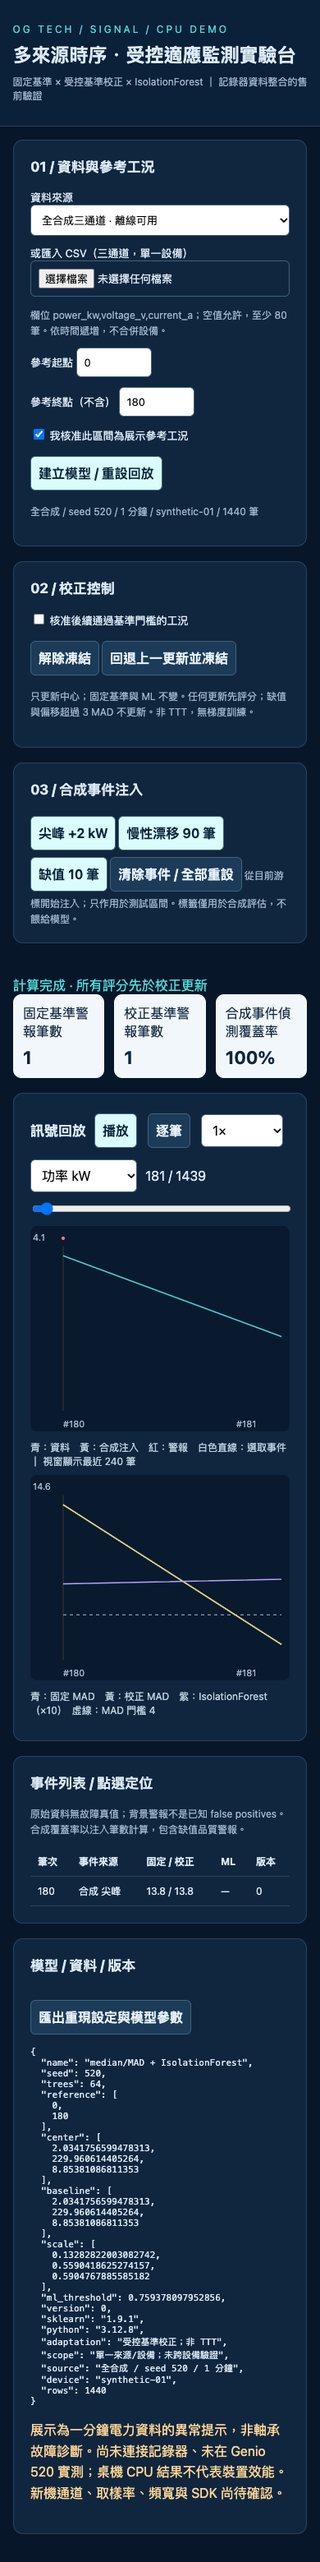
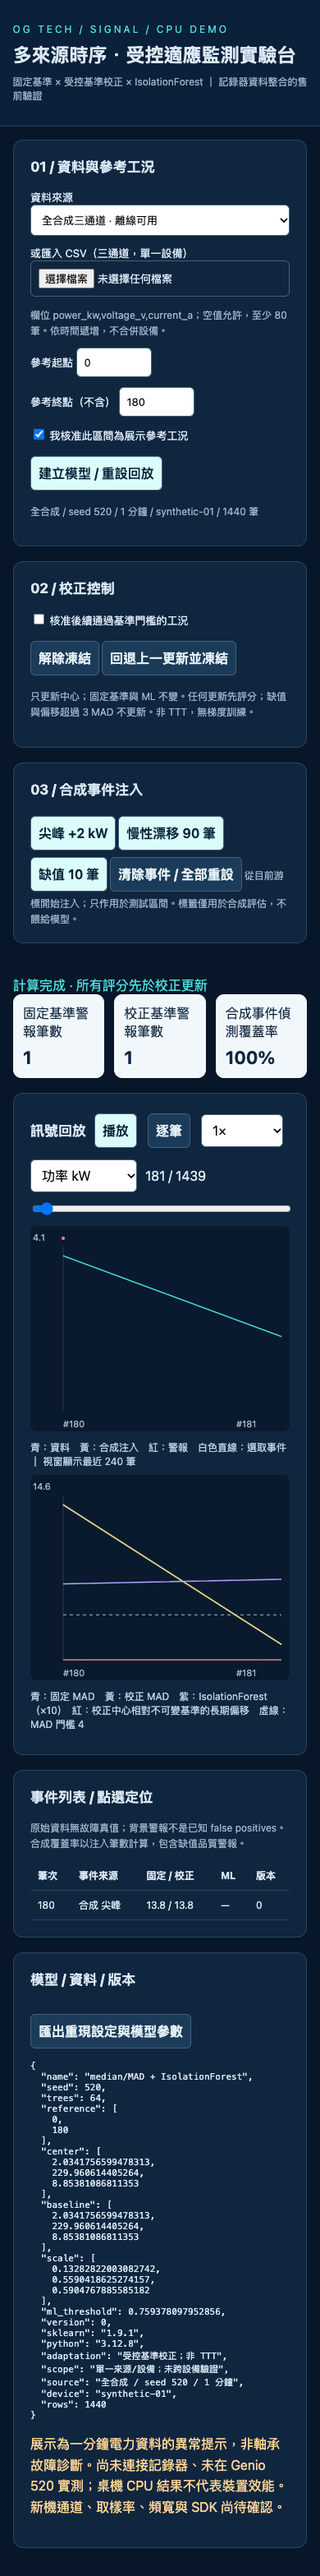
Record UI validation and clarify measured detection limits

diff --git a/app/static/index.html b/app/static/index.html
@@ -6,5 +6,5 @@
 <section class="panel"><h2>03 / 合成事件注入</h2><button data-inject="spike">尖峰 +2 kW</button><button data-inject="drift">慢性漂移 90 筆</button><button data-inject="missing">缺值 10 筆</button><button id="reset" class="secondary">清除事件 / 全部重設</button><small>從目前游標開始注入；只作用於測試區間。標籤僅用於合成評估，不餵給模型。</small></section></aside><div>
 <div id="status" role="status">載入中…</div><div class="cards"><div class="stat">固定基準警報筆數<b id="fixed">—</b></div><div class="stat">校正基準警報筆數<b id="adaptive">—</b></div><div class="stat">合成事件偵測覆蓋率<b id="recall">—</b></div></div>
 <section class="panel"><div class="row"><h2 style="margin:0">訊號回放</h2><button id="play">播放</button><button id="step" class="secondary">逐筆</button><select id="speed" style="width:100px"><option value="1">1×</option><option value="10">10×</option><option value="50">50×</option></select><select id="channel" style="width:130px"><option value="0">功率 kW</option><option value="1">電壓 V</option><option value="2">電流 A</option></select><span id="position"></span></div><input id="seek" type="range" style="width:100%" min="180" max="1439" value="180"><svg id="signal" class="chart" role="img" aria-label="時序訊號與合成事件圖"></svg><div class="legend">青：資料　黃：合成注入　紅：警報　白色直線：選取事件 ｜ 視窗顯示最近 240 筆</div><svg id="scores" class="chart" role="img" aria-label="固定與校正異常分數"></svg><div class="legend">青：固定 MAD　黃：校正 MAD　紫：IsolationForest（×10）　紅：校正中心相對不可變基準的長期偏移　虛線：MAD 門檻 4</div></section>
-<section class="panel"><h2>事件列表 / 點選定位</h2><p class="muted">原始資料無故障真值；背景警報不是已知 false positives。合成覆蓋率以注入筆數計算，包含缺值品質警報。</p><div class="scroll"><table><thead><tr><th>筆次</th><th>事件來源</th><th>固定 / 校正</th><th>ML</th><th>版本</th></tr></thead><tbody id="events"></tbody></table></div></section>
+<section class="panel"><h2>事件列表 / 點選定位</h2><p class="muted">原始資料無故障真值；背景警報不是已知 false positives。合成覆蓋率以注入筆數計算，包含缺值品質警報；原本就會警報的注入筆次也計入，不能歸因為注入偵測成功。</p><div class="scroll"><table><thead><tr><th>筆次</th><th>事件來源</th><th>固定 / 校正</th><th>ML</th><th>版本</th></tr></thead><tbody id="events"></tbody></table></div></section>
 <section class="panel"><div class="row"><h2>模型 / 資料 / 版本</h2><button id="export" class="secondary">匯出重現設定與模型參數</button></div><pre id="model"></pre><p class="warn">展示為一分鐘電力資料的異常提示，非軸承故障診斷。尚未連接記錄器、未在 Genio 520 實測；桌機 CPU 結果不代表裝置效能。新機通道、取樣率、頻寬與 SDK 尚待確認。</p></section></div></div></main><script src="/static/app.js"></script></html>

diff --git a/app/main.py b/app/main.py
@@ -1,4 +1,4 @@
-import csv, io, json, platform
+import csv, io, json, platform, hashlib
 from pathlib import Path
 import sklearn
 from fastapi import FastAPI, HTTPException
@@ -44,5 +44,5 @@ def run(r:Run):
                 if action.get("rollback"): model.rollback()
             if i==r.rollback_at:model.rollback()
             result.append(model.score(row,approved))
-        return dict(scores=result,model=dict(name='median/MAD + IsolationForest',seed=520,trees=64,reference=[r.start,r.end],center=model.center.tolist(),baseline=model.base.tolist(),scale=model.scale.tolist(),ml_threshold=model.ml_threshold,version=model.version,sklearn=sklearn.__version__,python=platform.python_version(),adaptation='受控基準校正；非 TTT',scope='單一來源/設備；未跨設備驗證'))
+        return dict(scores=result,model=dict(name='median/MAD + IsolationForest',implementation='1.0.0',reference_sha256=hashlib.sha256(json.dumps(r.rows[r.start:r.end],sort_keys=True).encode()).hexdigest(),seed=520,trees=64,reference=[r.start,r.end],center=model.center.tolist(),baseline=model.base.tolist(),scale=model.scale.tolist(),ml_threshold=model.ml_threshold,version=model.version,sklearn=sklearn.__version__,python=platform.python_version(),adaptation='受控基準校正；非 TTT',scope='單一來源/設備；未跨設備驗證'))
     except (ValueError,TypeError) as e: raise HTTPException(422,str(e))

diff --git a/scripts/download_uci.py b/scripts/download_uci.py
@@ -3,7 +3,9 @@ from pathlib import Path
 import urllib.request, zipfile, io, csv, json, hashlib, ssl, certifi
 ROOT=Path(__file__).resolve().parents[1]; cache=ROOT/'data/cache';cache.mkdir(parents=True,exist_ok=True)
 p=cache/'uci235.zip'
-if not p.exists(): p.write_bytes(urllib.request.urlopen('https://archive.ics.uci.edu/static/public/235/individual+household+electric+power+consumption.zip', context=ssl.create_default_context(cafile=certifi.where())).read())
+if not p.exists(): p.write_bytes(urllib.request.urlopen('https://archive.ics.uci.edu/static/public/235/individual+household+electric+power+consumption.zip', timeout=60, context=ssl.create_default_context(cafile=certifi.where())).read())
+digest=hashlib.sha256(p.read_bytes()).hexdigest()
[1 lines of base64/hex data omitted]
 z=zipfile.ZipFile(p)
 with z.open('household_power_consumption.txt') as f:
     reader=csv.DictReader(io.TextIOWrapper(f),delimiter=';'); rows=[];times=[]

diff --git a/docs/VALIDATION.md b/docs/VALIDATION.md
@@ -1,0 +1,18 @@
+# 本輪驗證紀錄
+
+日期：2026-10-29（工作區日期）；Python 3.12.8 / macOS 14.4 arm64 / scikit-learn 1.9.1。CPU 型號查詢受 sandbox 限制，因此只回報 arm64；非 G520。
+
+- pytest：6 passed，2.08 秒；一個上游 Starlette / httpx 棄用警告，不影響結果。
+- Chrome headless：1440×1100 與 390×844，建模、合成尖峰、逐筆、播放／暫停與重設成功；無 pageerror、無水平溢位。已檢視桌機與手機截圖。UI 測試需手動安裝 Playwright，不包含於 Python lock。
+- 額外 UI：UCI source、核准、解除凍結、回退、漂移、缺值、事件定位與 JSON 匯出：PASS。
+- CPU benchmark：資料與指標見 benchmark.json；原始與合成資料均 1440 筆，參考 [0,180)，後 1260 筆評分；單執行緒 IsolationForest。
+- 合成資料：尖峰固定/校正覆蓋 100%、ML 0%；漂移固定約 57.8%、校正約 55.6%、ML 約 1.1%。這些結果不支持「ML 一定更好」或「校正一定改善」。缺值由品質警報抓到，不是 ML 的缺值診斷能力。
+- UCI：974 筆未注入資料觸發任一警報。沒有故障真值，不能命名為 false positive；高比例顯示短參考區間跨日常負載工況的限制。注入區段 100% 覆蓋也不證明是注入造成，因未扣掉原本就會警報的筆次。
+- 資料：官方 UCI 下載成功；小切片 1440 筆；archive SHA256 見 ATTRIBUTION.md。
+- Docker build / Compose、Linux CI、GCP VM、實體記錄器與 G520：本輪未跑。Docker socket 存取被宿主權限阻擋；沒有使用 Docker Desktop UI。
+
+## 發布狀態
+
+本機獨立 Git repo 已建立。公司 GitHub 連接器以指定 link_id 查詢 ogtech-ai/signal-adaptive-monitoring 時回傳 HTTP 422：「組織/資源不存在或無權查看」，無法完成查重；沒有建立遠端 repo 或 push。gh 現有登入不含有效公司帳號，不使用個人 repo。需父端協調合法公司寫入通路後再發布；此為權限阻礙，非已成功發布。
+
+GCP project/VM/zone/規格與部署授權未提供。preflight workflow 只驗證字串，不碰雲端。未建立資源、IAM、金鑰或公開端點。
